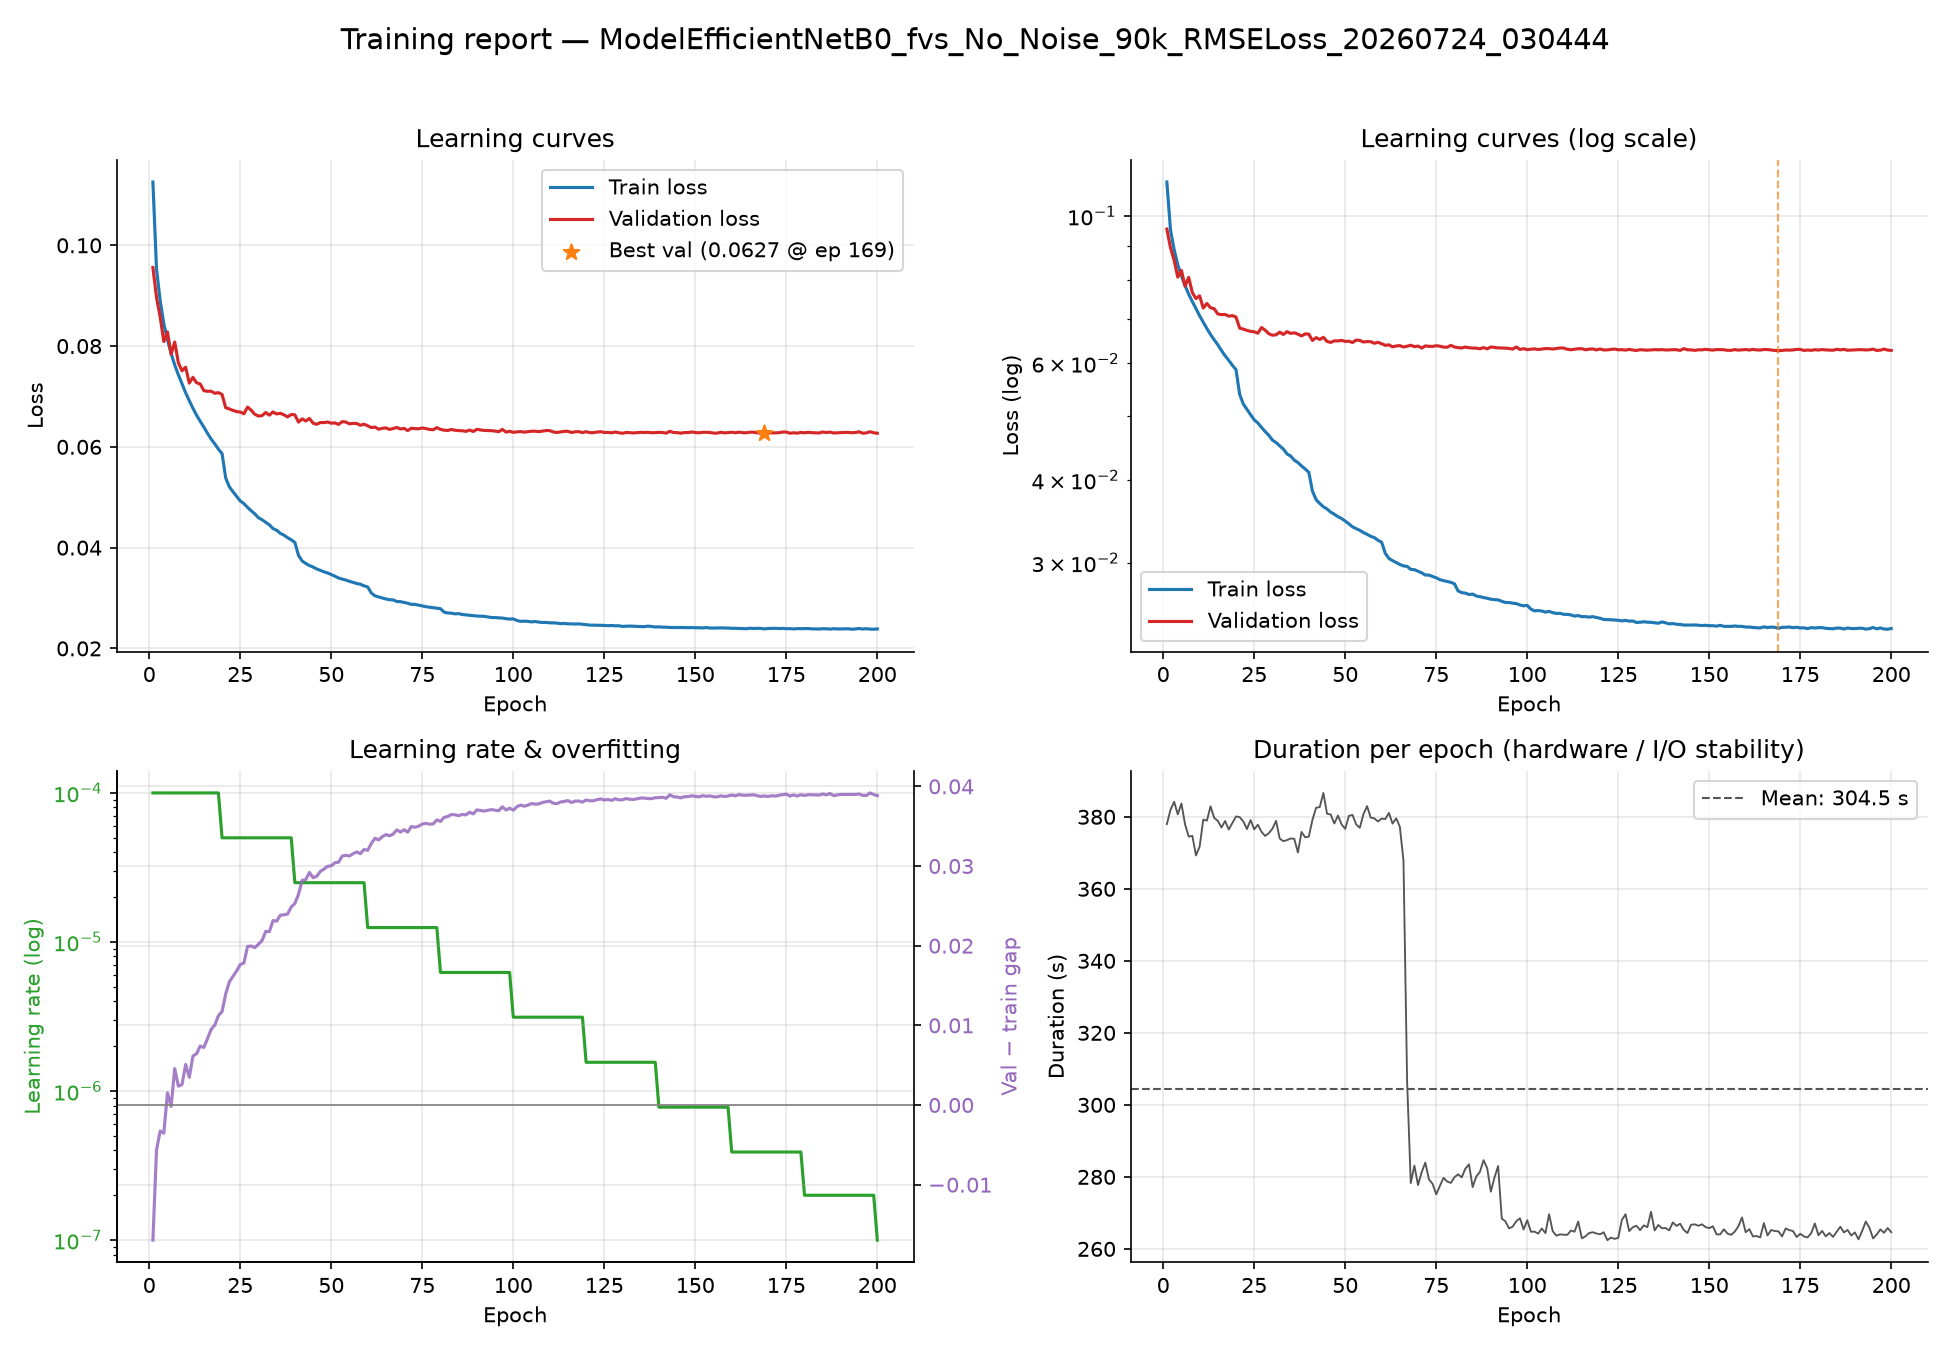
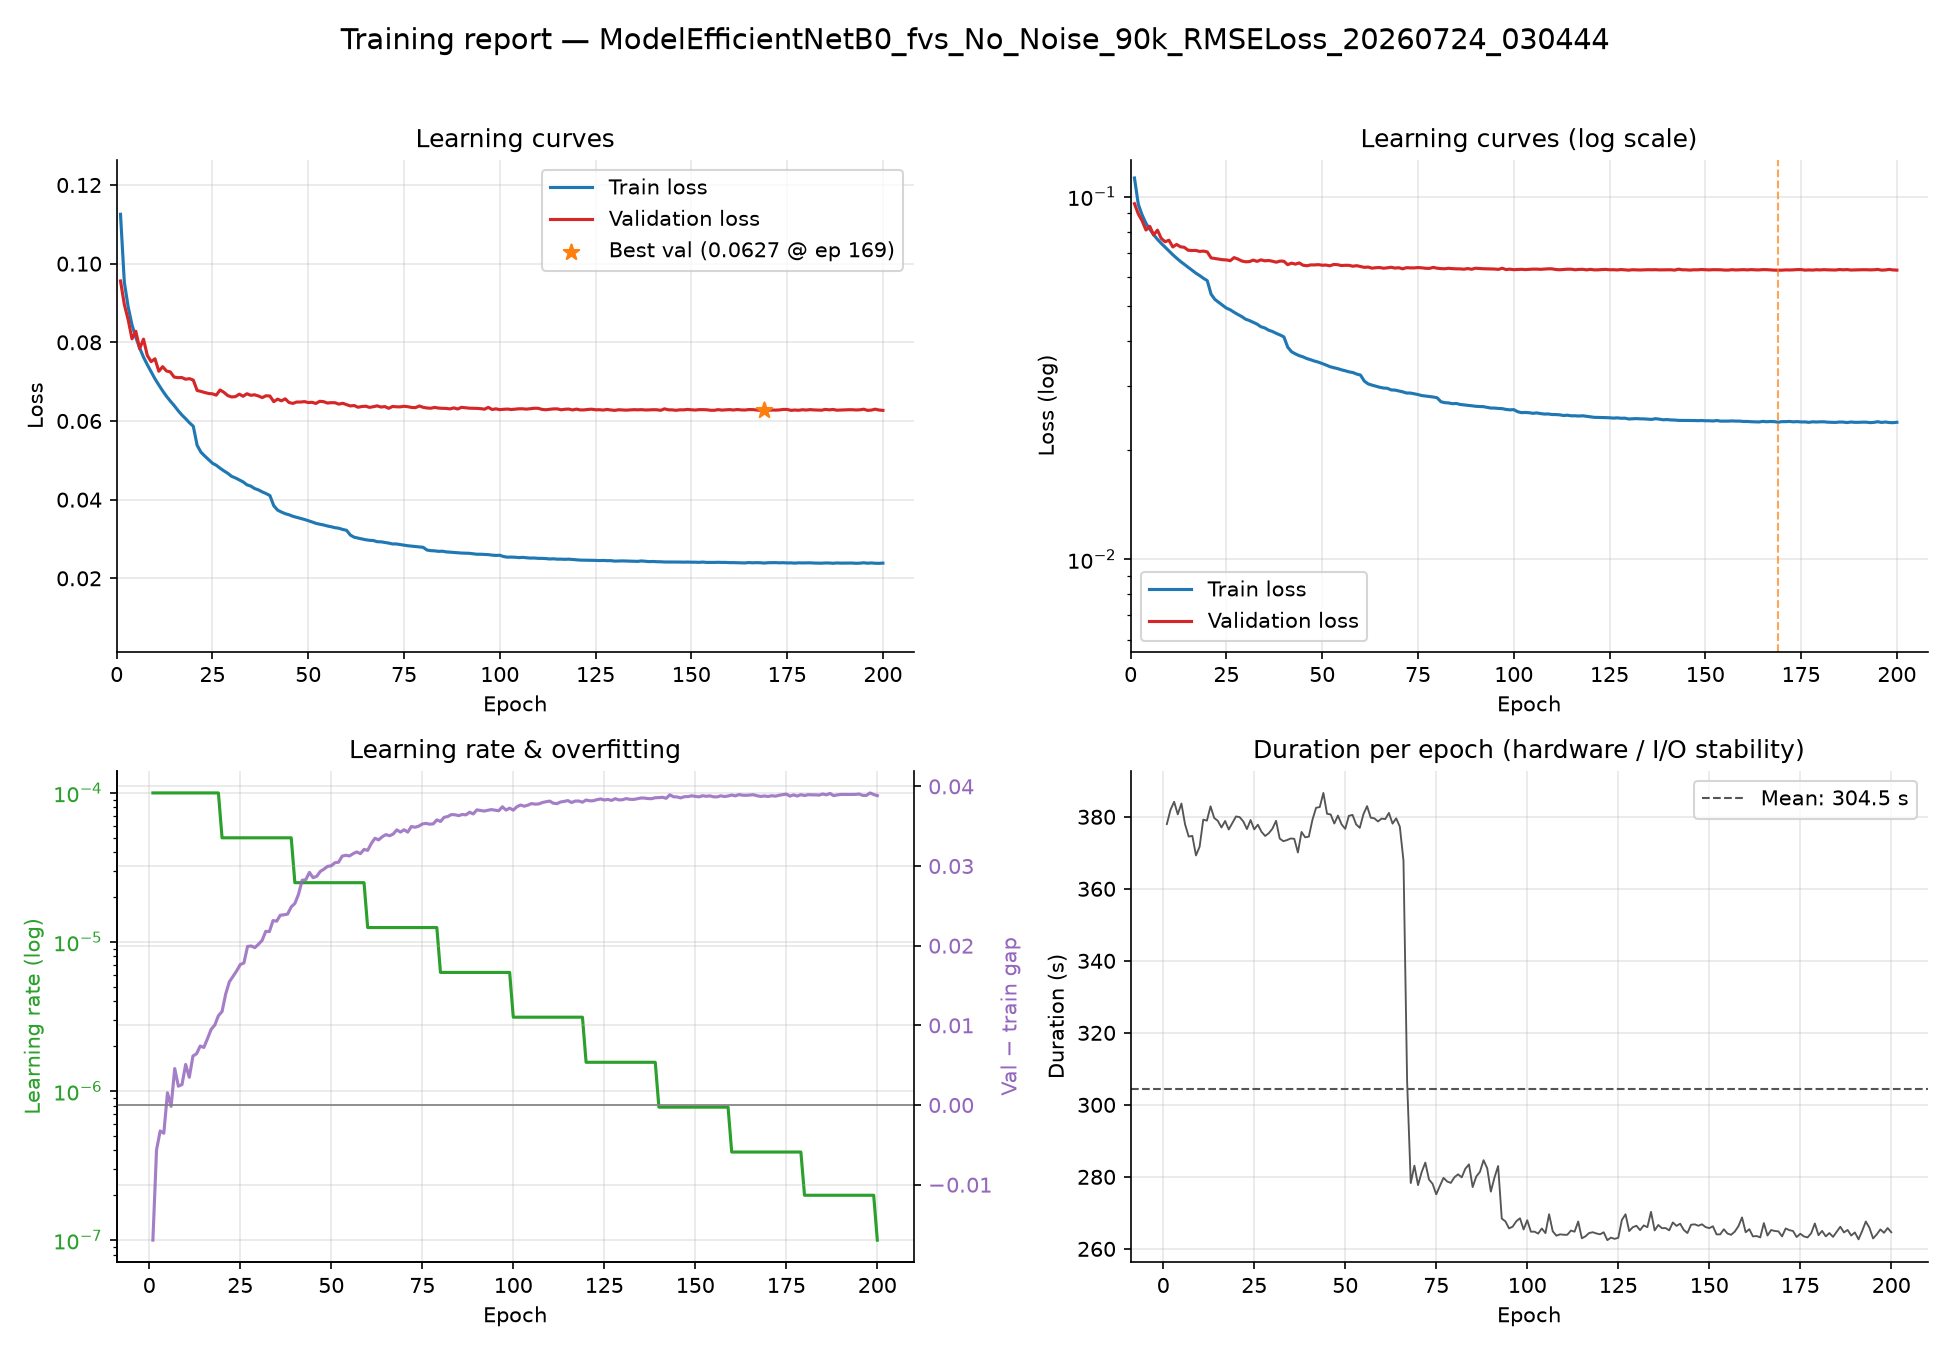
ratio val_best/train_best added comparing to val_final/train_final small change in analyze_training_log.py

diff --git a/Model_100/300K_dataset_files/analyze_training_log.py b/Model_100/300K_dataset_files/analyze_training_log.py
@@ -2,26 +2,21 @@
 # -*- coding: utf-8 -*-
 """
 ===============================================================================
+This code was generated using Claude for analyzing the csv traning log file.
  analyze_training_log.py
 -------------------------------------------------------------------------------
  Analysis and visualization of training logs (log.csv) for seismic inversion
- models (e.g. ModelCNN_fvs — f-Vs dispersion -> shear-wave velocity profile).
+ models
 
  The log.csv file must contain the following columns:
    run_id, model_name, run_started_at, epoch (format "N/M"), epoch_timestamp,
    train_loss, val_loss, is_best, learning_rate, epoch_duration_sec,
    num_params, batch_size, seed
 
- Usage:
-   Edit the settings inside the `if __name__ == "__main__":` block at the
-   bottom of this file (CSV_PATH, MIN_EPOCHS, ...), then press Run in PyCharm.
-
  Outputs:
    - A text summary of each run printed to the terminal
    - figures/<run_id>_training_report.png   (4-panel report per run)
    - figures/runs_comparison.png            (if several runs are analyzed)
-
- Author: AI Intern — Civil Engineering Laboratory, NYCU
 ===============================================================================
 """
 
@@ -100,6 +95,11 @@ def summarize_run(run: pd.DataFrame) -> dict:
 
     total_sec = run["epoch_duration_sec"].sum() if "epoch_duration_sec" in run else np.nan
     gap_final = last["val_loss"] - last["train_loss"]
+    # Overfitting is measured at the BEST-VAL epoch, not the final epoch: it is
+    # the checkpoint that actually gets deployed (is_best=True), and training
+    # loss keeps dropping after that point while val loss has already plateaued
+    # — so a final/final ratio overstates the gap of the model you actually use.
+    gap_at_best = best["val_loss"] - best["train_loss"]
 
     return {
         "run_id": run["run_id"].iloc[0],
@@ -113,7 +113,8 @@ def summarize_run(run: pd.DataFrame) -> dict:
         "final_train_loss": last["train_loss"],
         "final_val_loss": last["val_loss"],
         "final_gap": gap_final,
-        "gap_ratio": last["val_loss"] / last["train_loss"] if last["train_loss"] > 0 else np.nan,
+        "gap_at_best": gap_at_best,
+        "gap_ratio": best["val_loss"] / best["train_loss"] if best["train_loss"] > 0 else np.nan,
         "total_time_h": total_sec / 3600 if np.isfinite(total_sec) else np.nan,
         "mean_epoch_sec": run["epoch_duration_sec"].mean() if "epoch_duration_sec" in run else np.nan,
         "num_params": int(run["num_params"].iloc[0]) if "num_params" in run else None,
@@ -141,9 +142,11 @@ def print_summary(stats: dict) -> None:
     print(f"  Best val loss       : {stats['best_val_loss']:.6f}  (epoch {stats['best_epoch']},"
           f" train={stats['train_at_best']:.6f})")
     print(f"  Final losses        : train={stats['final_train_loss']:.6f}"
-          f"  |  val={stats['final_val_loss']:.6f}")
-    print(f"  Final val-train gap : {stats['final_gap']:+.6f}"
-          f"  (val/train ratio = {stats['gap_ratio']:.2f})")
+          f"  |  val={stats['final_val_loss']:.6f}"
+          f"  (gap={stats['final_gap']:+.6f})")
+    print(f"  At best epoch ({stats['best_epoch']:>3d})  : train={stats['train_at_best']:.6f}"
+          f"  |  val={stats['best_val_loss']:.6f}"
+          f"  (gap={stats['gap_at_best']:+.6f}, val/train ratio = {stats['gap_ratio']:.2f})")
     if np.isfinite(stats["total_time_h"]):
         print(f"  Total duration      : {stats['total_time_h']:.2f} h"
               f"  (~{stats['mean_epoch_sec']:.1f} s/epoch)")
@@ -155,7 +158,7 @@ def print_summary(stats: dict) -> None:
     ratio = stats["gap_ratio"]
     best_ep, n_ep = stats["best_epoch"], stats["epochs_logged"]
     if np.isfinite(ratio) and ratio > 3:
-        print("    [!] Strong overfitting: val loss is >3x the train loss.")
+        print("    [!] Strong overfitting: at the best epoch, val loss is >3x train loss.")
         print("        -> Ideas: data augmentation (noise on seismograms,")
         print("           offset variation), dropout/weight decay, or a smaller model.")
     elif np.isfinite(ratio) and ratio > 1.5:
@@ -170,11 +173,44 @@ def print_summary(stats: dict) -> None:
     print()
 
 
+def compute_shared_axis_bounds(df: pd.DataFrame, pad_frac: float = 0.04) -> dict:
+    """Compute x/y limits shared by every run report generated in this session.
+
+    epoch_max : the longest run sets the x-axis, so a run that stopped early
+                (fewer epochs, e.g. by early stopping) simply shows its curve
+                ending partway across an axis that matches every other report.
+    loss_min/max : global min/max of train_loss and val_loss across ALL runs,
+                so the same y-range is used everywhere. loss_min_log guards
+                against a non-positive lower bound, which set_ylim would
+                reject on a log-scale axis.
+    """
+    epoch_max = float(df["epoch_num"].max()) * (1 + pad_frac)
+    loss_all = pd.concat([df["train_loss"], df["val_loss"]]).dropna()
+    loss_min = float(loss_all.min())
+    loss_max = float(loss_all.max()) * (1 + pad_frac)
+    loss_span = loss_max - loss_min
+    return {
+        "epoch_max": epoch_max,
+        "loss_min": loss_min - pad_frac * loss_span,
+        "loss_min_log": max(loss_min * 0.9, 1e-6),
+        "loss_max": loss_max,
+    }
+
+
 # ----------------------------------------------------------------------------
 # Figures
 # ----------------------------------------------------------------------------
-def plot_run_report(run: pd.DataFrame, stats: dict, outdir: Path) -> Path:
-    """4-panel report: loss, loss (log scale), learning rate + gap, epoch duration."""
+def plot_run_report(run: pd.DataFrame, stats: dict, outdir: Path,
+                     axis_bounds: dict | None = None) -> Path:
+    """4-panel report: loss, loss (log scale), learning rate + gap, epoch duration.
+
+    axis_bounds, if given, forces the SAME x/y limits on the two loss panels
+    across every run report generated in this session. Without it, matplotlib
+    auto-scales each figure independently, so two reports placed side by side
+    (e.g. in a slide) end up on different scales and are not visually
+    comparable — a shorter run looks like it "starts higher" purely because
+    its y-axis is tighter, not because its loss actually differs.
+    """
     fig, axes = plt.subplots(2, 2, figsize=(13, 9))
     fig.suptitle(f"Training report — {stats['run_id']}", fontsize=14, y=0.98)
     ep = run["epoch_num"]
@@ -188,6 +224,9 @@ def plot_run_report(run: pd.DataFrame, stats: dict, outdir: Path) -> Path:
                label=f"Best val ({stats['best_val_loss']:.4f} @ ep {stats['best_epoch']})")
     ax.set_xlabel("Epoch"); ax.set_ylabel("Loss")
     ax.set_title("Learning curves")
+    if axis_bounds:
+        ax.set_xlim(0, axis_bounds["epoch_max"])
+        ax.set_ylim(axis_bounds["loss_min"], axis_bounds["loss_max"])
     ax.legend()
 
     # (2) Loss curves, log scale ----------------------------------------------
@@ -197,6 +236,9 @@ def plot_run_report(run: pd.DataFrame, stats: dict, outdir: Path) -> Path:
     ax.axvline(stats["best_epoch"], color=COLOR_BEST, ls="--", lw=1, alpha=0.7)
     ax.set_xlabel("Epoch"); ax.set_ylabel("Loss (log)")
     ax.set_title("Learning curves (log scale)")
+    if axis_bounds:
+        ax.set_xlim(0, axis_bounds["epoch_max"])
+        ax.set_ylim(axis_bounds["loss_min_log"], axis_bounds["loss_max"])
     ax.legend()
 
     # (3) Learning rate + val-train gap ---------------------------------------
@@ -236,14 +278,25 @@ def plot_run_report(run: pd.DataFrame, stats: dict, outdir: Path) -> Path:
 
 
 def plot_runs_comparison(df: pd.DataFrame, outdir: Path) -> Path | None:
-    """Compare the validation loss of all runs on a single figure."""
-    runs = df["run_id"].unique()
-    if len(runs) < 2:
+    """Compare the validation loss of all runs on a single figure.
+
+    Runs are drawn worst-to-best (highest best-val-loss first), so the legend
+    — which matplotlib fills in draw order for a single-column layout — lists
+    the worst model at the top and the best at the bottom. That matches how
+    the curves actually sit on the plot: worse (higher loss) runs plateau
+    higher up, better (lower loss) runs plateau lower down, so legend order
+    and curve position agree at a glance.
+    """
+    run_ids = df["run_id"].unique()
+    if len(run_ids) < 2:
         return None
+
+    ranking = sorted(run_ids, key=lambda rid: df.loc[df["run_id"] == rid, "val_loss"].min(),
+                      reverse=True)
 
     fig, ax = plt.subplots(figsize=(11, 6))
     cmap = plt.get_cmap("tab10")
-    for i, run_id in enumerate(runs):
+    for i, run_id in enumerate(ranking):
         run = df[df["run_id"] == run_id]
         ax.plot(run["epoch_num"], run["val_loss"],
                 color=cmap(i % 10), label=f"{run_id} ({len(run)} ep, {run['criterion'].iloc[0] if 'criterion' in run.columns else '?'})",)
@@ -252,7 +305,7 @@ def plot_runs_comparison(df: pd.DataFrame, outdir: Path) -> Path | None:
                    color=cmap(i % 10), marker="*", s=80, zorder=5)
 
     ax.set_xlabel("Epoch"); ax.set_ylabel("Validation loss")
-    ax.set_title("Runs comparison — validation loss (★ = best point)")
+    ax.set_title("Runs comparison — validation loss (★ = best point, legend top→bottom = worst→best)")
     ax.legend(fontsize=8)
     fig.tight_layout()
     outpath = outdir / "runs_comparison.png"
@@ -278,8 +331,6 @@ def main(csv_path: str | Path,
     min_epochs     : ignore runs with fewer epochs (filters out aborted test runs)
     outdir         : output directory for the figures
     exclude_models : list of model_name values to exclude from the analysis
-                     (e.g. a model with very poor results that would skew the
-                     comparison plots), or None to keep every model
     """
     # Relative paths are resolved from this script's folder, so the
     # PyCharm Run button works regardless of the working directory.
@@ -336,12 +387,13 @@ def main(csv_path: str | Path,
         return 1
 
     all_stats = []
+    axis_bounds = compute_shared_axis_bounds(df)
     for rid in df["run_id"].unique():
         run = df[df["run_id"] == rid].reset_index(drop=True)
         stats = summarize_run(run)
         all_stats.append(stats)
         print_summary(stats)
-        path = plot_run_report(run, stats, outdir)
+        path = plot_run_report(run, stats, outdir, axis_bounds=axis_bounds)
         print(f"  Figure saved: {path}\n")
 
     comp = plot_runs_comparison(df, outdir)
@@ -352,8 +404,8 @@ def main(csv_path: str | Path,
     if len(all_stats) > 1:
         rec = pd.DataFrame(all_stats)[
             ["run_id", "criterion", "epochs_logged", "best_val_loss", "best_epoch",
-             "final_gap", "total_time_h"]]
-        print("\nSummary:")
+             "final_gap", "total_time_h"]].sort_values("best_val_loss")
+        print("\nSummary (best -> worst):")
         print(rec.to_string(index=False,
                             float_format=lambda x: f"{x:.4f}"))
 
@@ -362,15 +414,10 @@ def main(csv_path: str | Path,
 
 if __name__ == "__main__":
     # -- Settings
-    CSV_PATH = "log/90K_RMSELoss_std0.1/log_all_models.csv"  # path to the log file (relative to this script)
+    CSV_PATH = "log/90K_RMSELoss_No_Noise/log_all_models.csv"  # path to the log file (relative to this script)
     RUN_ID = None        # e.g. "ModelResNet50_fvs_20260707_032232", or None for all runs
     MIN_EPOCHS = 10           # ignore runs with fewer epochs (aborted tests).
-    # Lowered from 100: with early_stopping_patience=25 in train.py, a legitimate
-    # run can now stop as early as ~epoch 26 — a threshold of 100 would silently
-    # filter those out along with actual aborted/crashed runs. Raise this back up
-    # if you disable early stopping (early_stopping_patience=0) and want to filter
-    # short test runs again.
-    OUTDIR = "figures/90K_RMSELoss_std0.1"   # output directory for the figures
+    OUTDIR = "figures/90K_RMSELoss_No_Noise"   # output directory for the figures
     EXCLUDE_MODELS = [
         "ModelEfficientNetB0_fvs_Noise_std0.08",
     ]  # model_name values to exclude from the analysis (bad results, etc.)

diff --git a/Model_6/300K_dataset_files/analyze_training_log.py b/Model_6/300K_dataset_files/analyze_training_log.py
@@ -362,7 +362,7 @@ def main(csv_path: str | Path,
 
 if __name__ == "__main__":
     # -- Settings
-    CSV_PATH = "log/90K_RMSELoss_std0.1/log_all_models.csv"  # path to the log file (relative to this script)
+    CSV_PATH = "log/90K_RMSELoss_No_Noise/log_all_models.csv"  # path to the log file (relative to this script)
     RUN_ID = None        # e.g. "ModelResNet50_fvs_20260707_032232", or None for all runs
     MIN_EPOCHS = 10           # ignore runs with fewer epochs (aborted tests).
     # Lowered from 100: with early_stopping_patience=25 in train.py, a legitimate
@@ -370,7 +370,7 @@ if __name__ == "__main__":
     # filter those out along with actual aborted/crashed runs. Raise this back up
     # if you disable early stopping (early_stopping_patience=0) and want to filter
     # short test runs again.
-    OUTDIR = "figures/90K_RMSELoss_std0.1"   # output directory for the figures
+    OUTDIR = "figures/90K_RMSELoss_No_Noise"   # output directory for the figures
     EXCLUDE_MODELS = [
         "ModelEfficientNetB0_fvs_Noise_std0.08",
     ]  # model_name values to exclude from the analysis (bad results, etc.)
